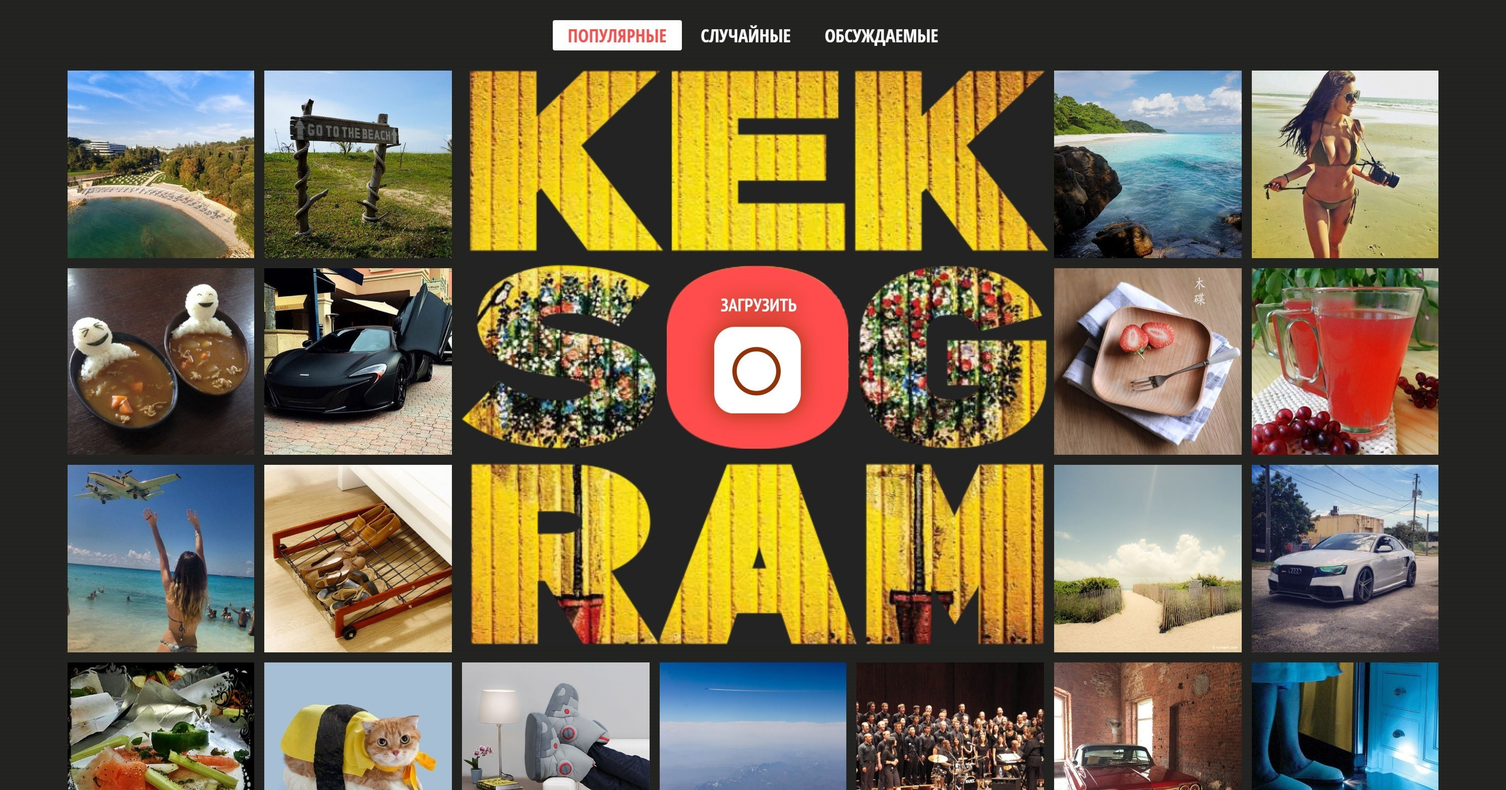
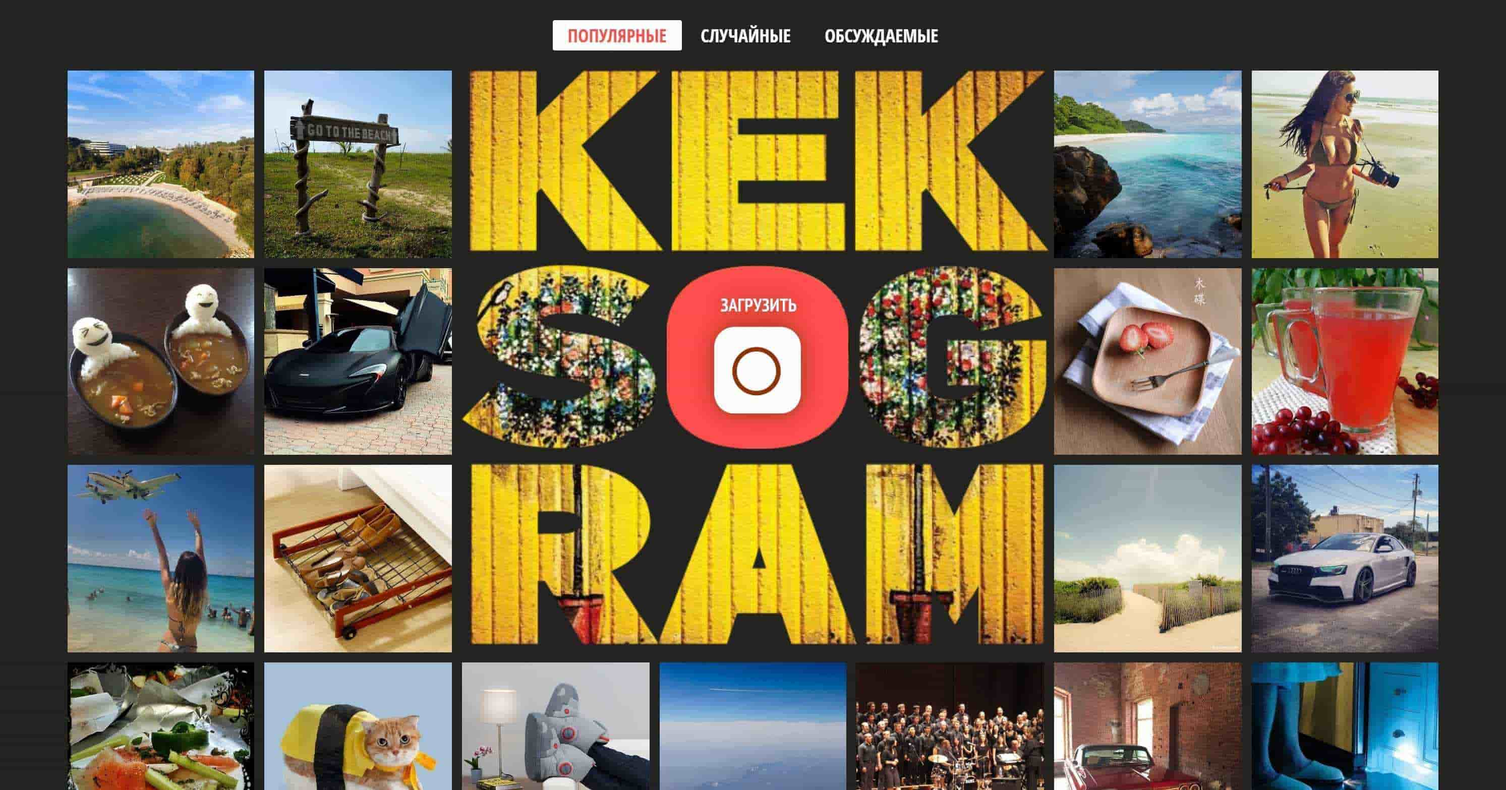
Feat/optimaze project (#12)
* fix: change burger button

* add: add favicons

* fix: change title for site

* fix: delete unused code

* fix/optimization images

* feat: add meta description

diff --git a/src/constants.js b/src/constants.js
@@ -28,17 +28,17 @@ export const SKILLS_ITEMS = [
 ]
 
 export const PROJECTS_ITEMS = [
-    { name: 'Drink2go', img: 'drink2go.png', gitLink: 'https://github.com/Kawin-xxx/Drink2Go', siteLink: 'https://kawin-xxx.github.io/Drink2Go/', isSite: true, isDesign: false },
-    { name: 'Glacy Shop', img: 'glacy-shop.png', gitLink: 'https://github.com/Kawin-xxx/2111545-gllacy-34', siteLink: 'https://kawin-xxx.github.io/2111545-gllacy-34/', isSite: true, isDesign: false },
-    { name: 'Antarctic Cruises', img: 'antarctic.png', gitLink: 'https://github.com/Kawin-xxx/Antarctic-cruises', siteLink: 'https://kawin-xxx.github.io/Antarctic-cruises/', isSite: true, isDesign: false },
-    { name: 'Smart Device', img: 'smart-devices.png', gitLink: 'https://github.com/Kawin-xxx/Smart-Device', siteLink: 'https://kawin-xxx.github.io/Smart-Device/', isSite: true, isDesign: false },
-    { name: 'Super Gym', img: 'super-gym.png', gitLink: 'https://github.com/Kawin-xxx/Fitness', siteLink: 'https://kawin-xxx.github.io/Fitness/', isSite: true, isDesign: false },
-    { name: 'Portfolio', img: 'portfolio.png', gitLink: 'https://github.com/Kawin-xxx/Portfolio', siteLink: 'https://kawin-xxx.github.io/Portfolio/', isSite: true, isDesign: true },
-    { name: 'Keksogram', img: 'keksogram.jpg', gitLink: 'https://github.com/Kawin-xxx/2111545-kekstagram-simple-27', siteLink: 'https://kawin-xxx.github.io/2111545-kekstagram-simple-27/', isSite: true, isDesign: false },
-    { name: 'Cat Energy', img: 'cat-energy.png', gitLink: 'https://github.com/Kawin-xxx/2111545-cat-energy-26', siteLink: 'https://kawin-xxx.github.io/2111545-cat-energy-26/', isSite: true, isDesign: false },
-    { name: 'NFT Market', img: 'nft-market.png', gitLink: '', siteLink: '', isSite: false, isDesign: true },
-    { name: 'Oils', img: 'oils.png', gitLink: '', siteLink: '', isSite: false, isDesign: true },
-    { name: 'Donuts', img: 'donuts.png', gitLink: '', siteLink: '', isSite: false, isDesign: true }
+    { name: 'Drink2go', img: 'drink2go', gitLink: 'https://github.com/Kawin-xxx/Drink2Go', siteLink: 'https://kawin-xxx.github.io/Drink2Go/', isSite: true, isDesign: false },
+    { name: 'Glacy Shop', img: 'glacy-shop', gitLink: 'https://github.com/Kawin-xxx/2111545-gllacy-34', siteLink: 'https://kawin-xxx.github.io/2111545-gllacy-34/', isSite: true, isDesign: false },
+    { name: 'Antarctic Cruises', img: 'antarctic', gitLink: 'https://github.com/Kawin-xxx/Antarctic-cruises', siteLink: 'https://kawin-xxx.github.io/Antarctic-cruises/', isSite: true, isDesign: false },
+    { name: 'Smart Device', img: 'smart-devices', gitLink: 'https://github.com/Kawin-xxx/Smart-Device', siteLink: 'https://kawin-xxx.github.io/Smart-Device/', isSite: true, isDesign: false },
+    { name: 'Super Gym', img: 'super-gym', gitLink: 'https://github.com/Kawin-xxx/Fitness', siteLink: 'https://kawin-xxx.github.io/Fitness/', isSite: true, isDesign: false },
+    { name: 'Portfolio', img: 'portfolio', gitLink: 'https://github.com/Kawin-xxx/Portfolio', siteLink: 'https://kawin-xxx.github.io/Portfolio/', isSite: true, isDesign: true },
+    { name: 'Keksogram', img: 'keksogram', gitLink: 'https://github.com/Kawin-xxx/2111545-kekstagram-simple-27', siteLink: 'https://kawin-xxx.github.io/2111545-kekstagram-simple-27/', isSite: true, isDesign: false },
+    { name: 'Cat Energy', img: 'cat-energy', gitLink: 'https://github.com/Kawin-xxx/2111545-cat-energy-26', siteLink: 'https://kawin-xxx.github.io/2111545-cat-energy-26/', isSite: true, isDesign: false },
+    { name: 'NFT Market', img: 'nft-market', gitLink: '', siteLink: '', isSite: false, isDesign: true },
+    { name: 'Oils', img: 'oils', gitLink: '', siteLink: '', isSite: false, isDesign: true },
+    { name: 'Donuts', img: 'donuts', gitLink: '', siteLink: '', isSite: false, isDesign: true }
 ]
 
 export const STACK_ITEMS = [

diff --git a/src/components/ProjectCard.vue b/src/components/ProjectCard.vue
@@ -19,7 +19,15 @@ export default {
         <h3 class="project__title">{{ cardData.name }}</h3>
         <div class="project__photo-wrapper">
             <picture>
-                <img class="project__image" :src="`/Portfolio/img/projects/${cardData.img}`" :alt=cardData.name>
+                <source type="image/webp" :srcset="`/Portfolio/img/projects/${cardData.img}.webp`">
+                <img
+                    class="project__image"
+                    width="250"
+                    height="133"
+                    loading="lazy"
+                    :src="`/Portfolio/img/projects/${cardData.img}.png`"
+                    :alt="`Изображение проекта ${cardData.name}.`"
+                >
             </picture>
         </div>
         <div class="project-card__buttons-wrapper" v-if="cardData.gitLink">
@@ -61,6 +69,7 @@ export default {
     border-radius: 5px;
     margin-bottom: 20px;
     width: 100%;
+    height: auto;
 }
 
 .project-card__buttons-wrapper {

diff --git a/src/components/AboutSection.vue b/src/components/AboutSection.vue
@@ -15,8 +15,8 @@ export default {
         <div class="about__container container">
             <div class="about__photo-wrapper">
                 <picture>
-                    <!-- <source type="image/webp" srcset="../../src/assets/img/photo/photo-me.webp 1x, ../../src/assets/img/photo/photo-me@2x.webp 2x"> -->
-                    <img class="about__image" width="250" height="332" src="../../src/assets/img/photo/photo-me.jpg" srcset="../../src/assets/img/photo/photo-me@2x.jpg 2x" alt="Автопортрет.">
+                    <source type="image/webp" srcset="/img/photo/photo-me.webp 1x, /img/photo/photo-me@2x.webp 2x">
+                    <img class="about__image" width="250" height="332" src="/img/photo/photo-me.jpg" srcset="/img/photo/photo-me@2x.jpg 2x" alt="Автопортрет.">
                 </picture>
             </div>
 

diff --git a/index.html b/index.html
@@ -2,9 +2,13 @@
 <html lang="en">
   <head>
     <meta charset="UTF-8">
-    <link rel="icon" href="/favicon.ico">
+    <link rel="icon" href="/favicon.ico"> <!-- 32×32 -->
+    <link rel="icon" href="/favicons/favicon.png" type="image/svg+xml"> <!-- 16×16 -->
+    <link rel="apple-touch-icon" href="/favicons/favicon-apple.png"> <!-- 180×180 -->
     <meta name="viewport" content="width=device-width, initial-scale=1.0">
-    <title>Vite App</title>
+    <meta name="description" content="This is a project developed by Ekaterina Oleinikova.">
+    <link rel="manifest" href="/favicons/manifest.webmanifest">
+    <title>Ekaterina Oleinikova: frontend-developer</title>
   </head>
   <body>
     <div id="app"></div>

diff --git a/src/assets/variables.scss b/src/assets/variables.scss
@@ -1,12 +1,3 @@
-/* Colors */
-$color-white: #ffffff;
-$color-black: #333333;
-$color-total-black: #222121;
-$color-aqua: #4BDADA;
-
-/* Fonts */
-$font-montserrat: "Montserrat", "Arial", sans-serif;
-
 /* Viewports */
 $tablet-width: 768px;
 $desktop-width: 1440px;

diff --git a/src/components/MainHeader.vue b/src/components/MainHeader.vue
@@ -229,7 +229,7 @@ export default {
     .navigation__toggle-icon {
         transition-duration: 0.5s;
         position: absolute;
-        height: 3px;
+        height: 2px;
         width: 30px;
         top: 30px;
         left: 15px;

diff --git a/src/assets/main.scss b/src/assets/main.scss
@@ -27,7 +27,7 @@ html {
 
 a {
   text-decoration: none;
-  color: $color-white;
+  color: var(--color-text);
   transition: 0.4s;
 }
 
